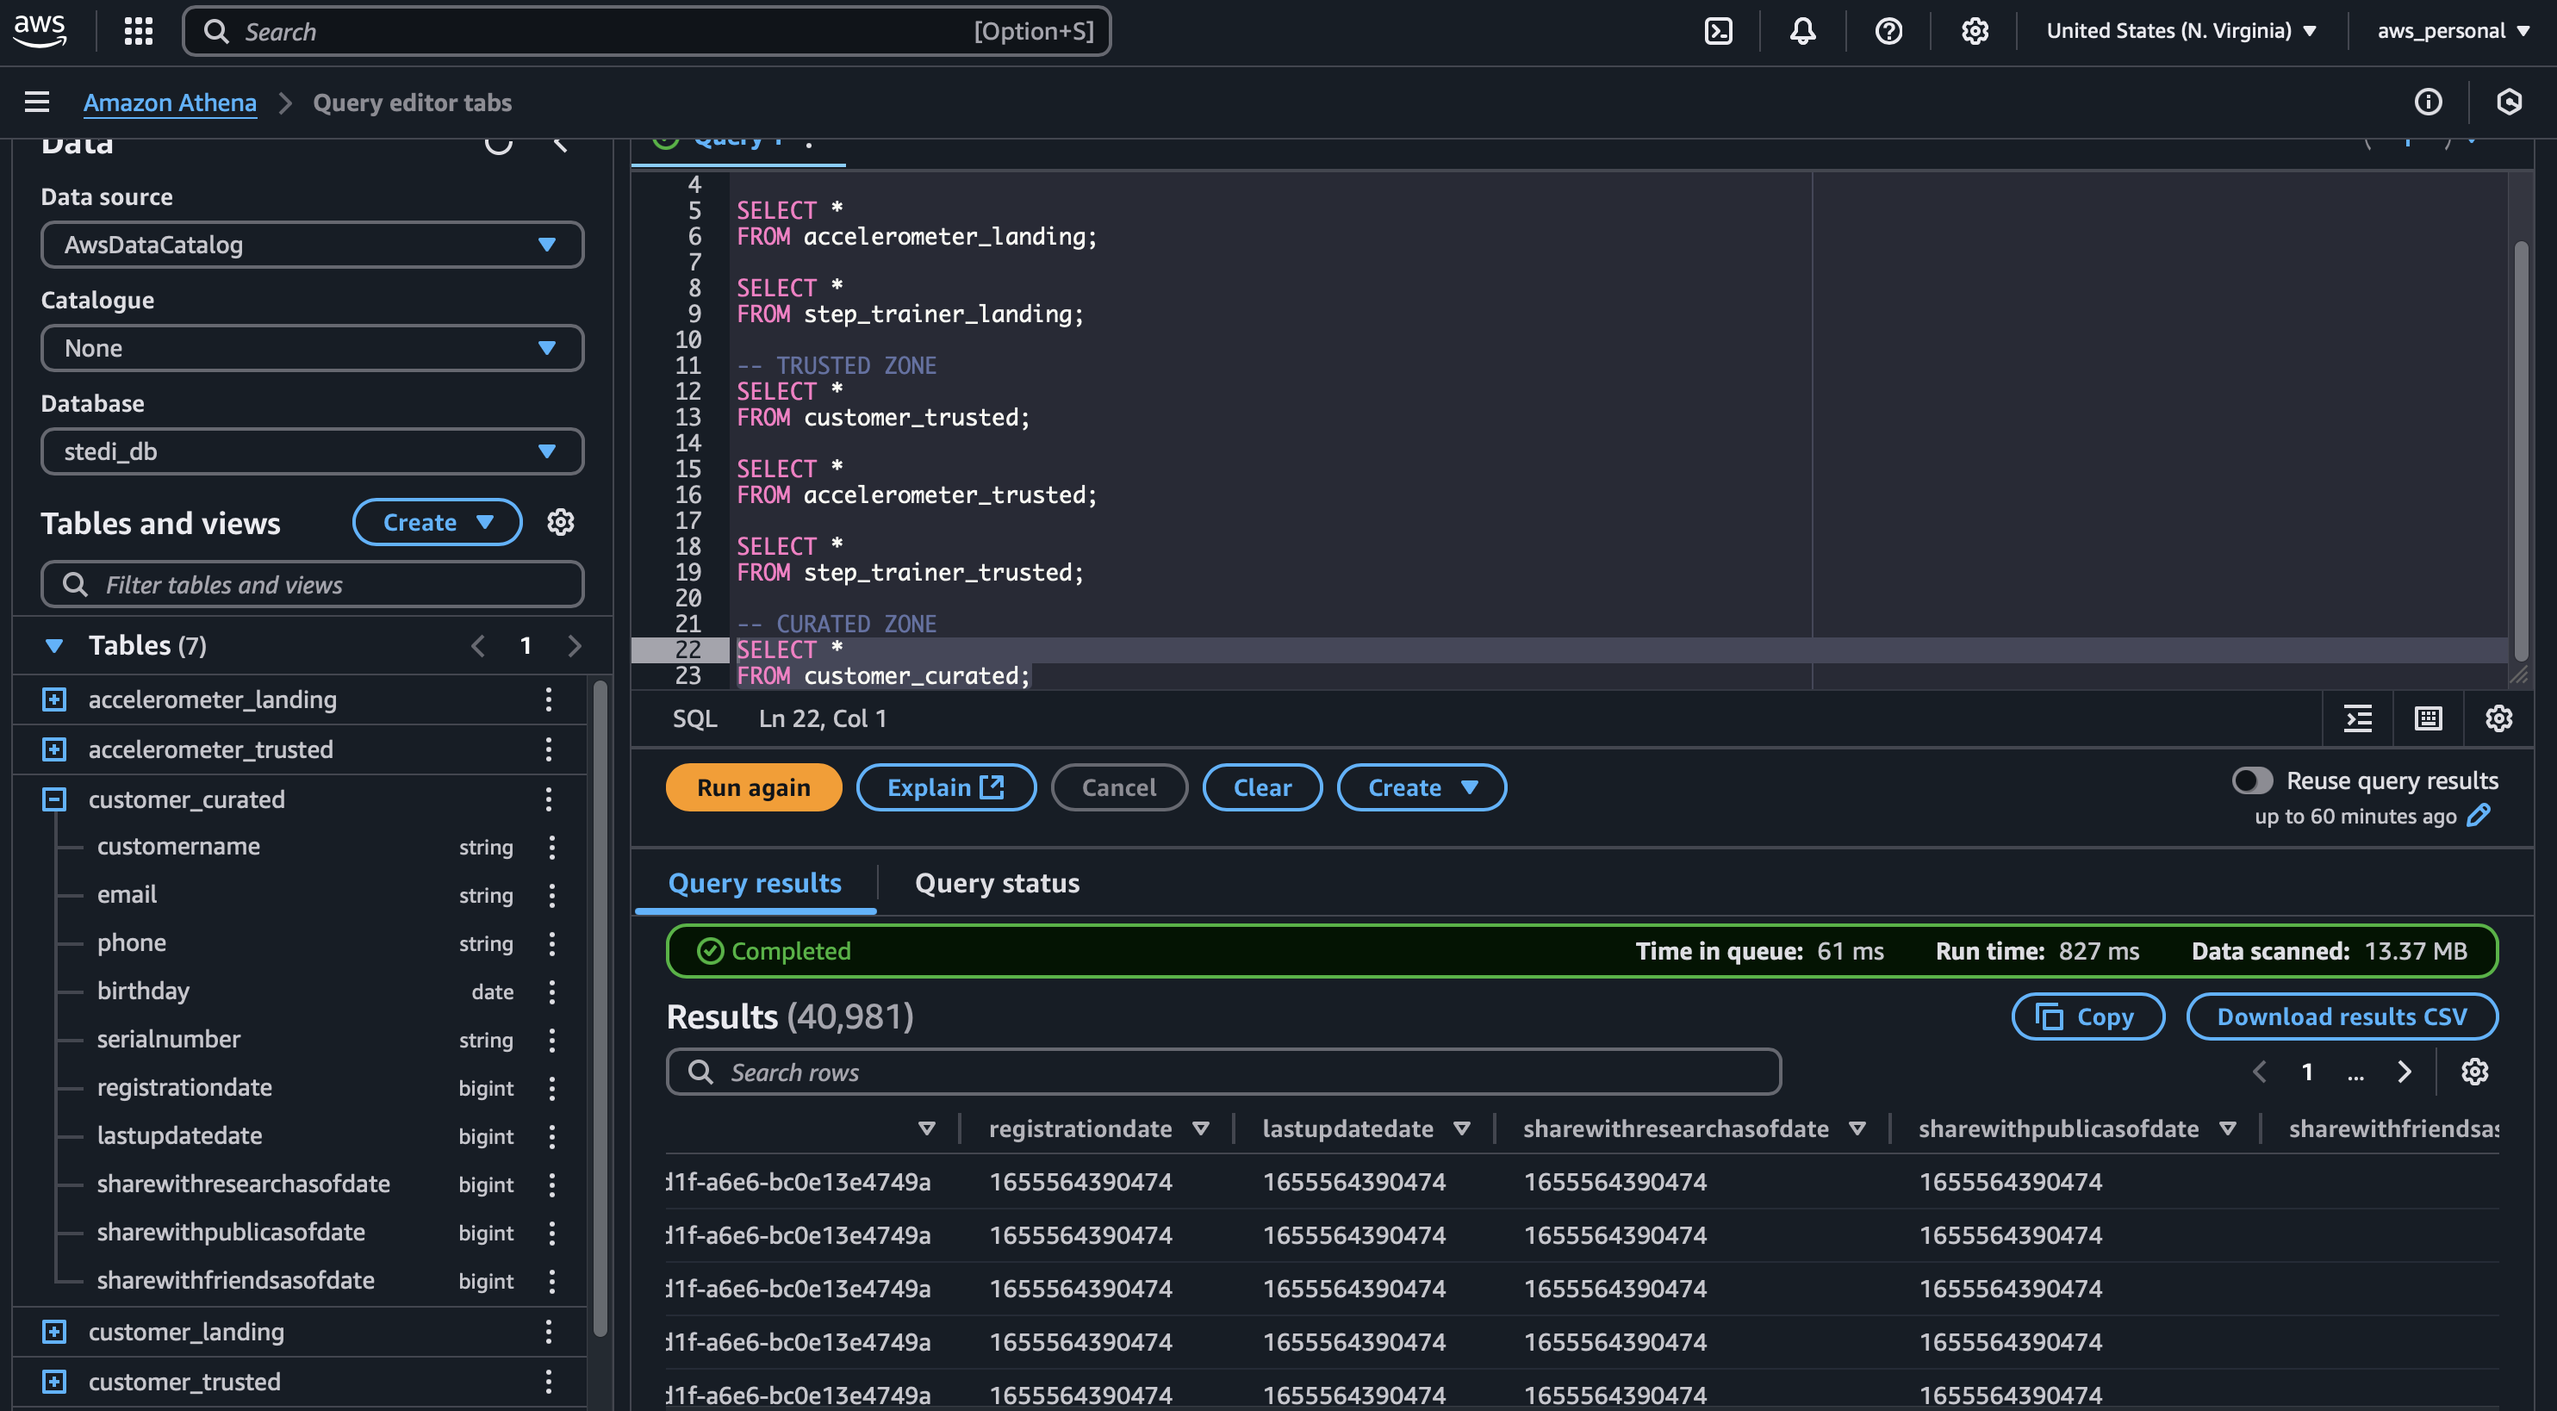
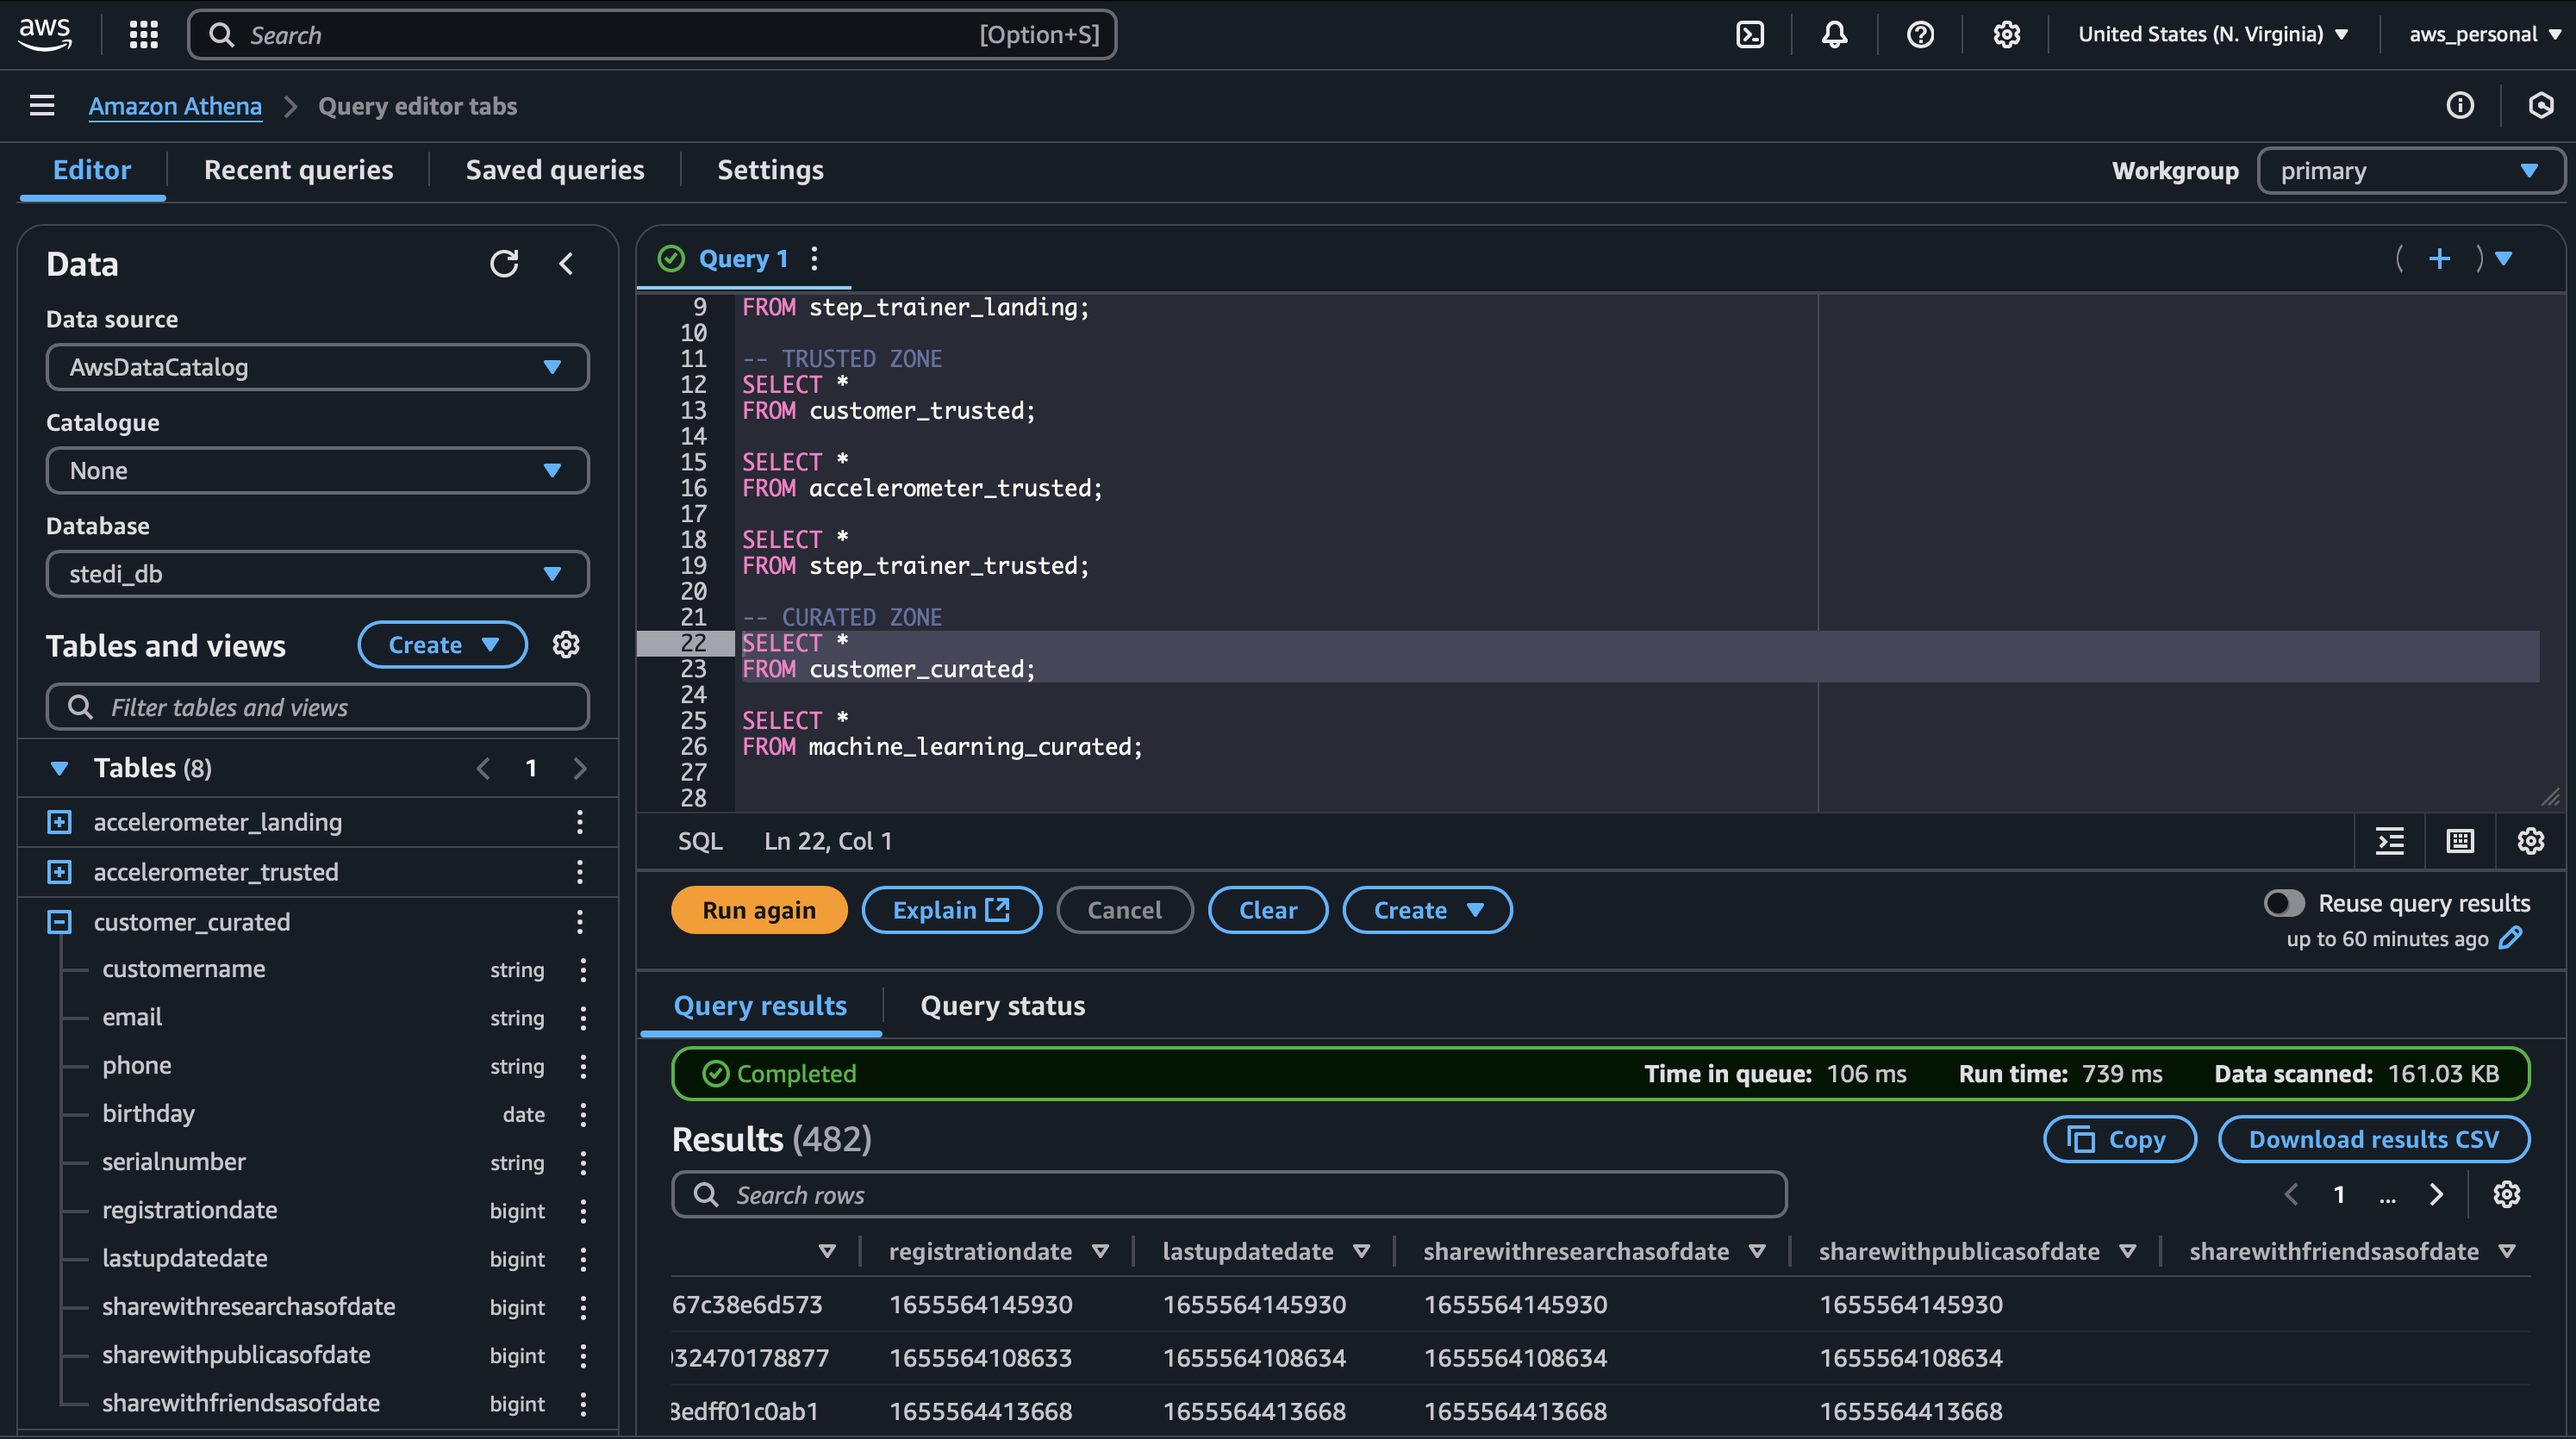
Bug fix in the customer curated glue job

Changed region(s): [[0.0, 0.0, 1.0, 1.0], [0.6509, 0.0, 0.9919, 0.0311], [0.8679, 0.8407, 0.9609, 0.9029]]

diff --git a/stedi_human_balance_analitics/glue_jobs/step_trainer_trusted.py b/stedi_human_balance_analitics/glue_jobs/step_trainer_trusted.py
@@ -25,13 +25,13 @@ Steptrainerlanding_node1745692724201 = glueContext.create_dynamic_frame.from_cat
 Customercurated_node1745692723479 = glueContext.create_dynamic_frame.from_catalog(database="stedi_db", table_name="customer_curated", transformation_ctx="Customercurated_node1745692723479")
 
 # Script generated for node INNER JOIN
-SqlQuery1131 = '''
-SELECT DISTINCT s.* 
+SqlQuery1416 = '''
+SELECT s.* 
 FROM step_trainer_landing s
 JOIN customer_curated c
 ON s.serialnumber = c.serialnumber;
 '''
-INNERJOIN_node1745692726862 = sparkSqlQuery(glueContext, query = SqlQuery1131, mapping = {"step_trainer_landing":Steptrainerlanding_node1745692724201, "customer_curated":Customercurated_node1745692723479}, transformation_ctx = "INNERJOIN_node1745692726862")
+INNERJOIN_node1745692726862 = sparkSqlQuery(glueContext, query = SqlQuery1416, mapping = {"step_trainer_landing":Steptrainerlanding_node1745692724201, "customer_curated":Customercurated_node1745692723479}, transformation_ctx = "INNERJOIN_node1745692726862")
 
 # Script generated for node Step trainer trusted
 Steptrainertrusted_node1745692728849 = glueContext.write_dynamic_frame.from_catalog(frame=INNERJOIN_node1745692726862, database="stedi_db", table_name="step_trainer_trusted", additional_options={"enableUpdateCatalog": True, "updateBehavior": "UPDATE_IN_DATABASE"}, transformation_ctx="Steptrainertrusted_node1745692728849")

diff --git a/stedi_human_balance_analitics/glue_jobs/customer_trusted_to_curated.py b/stedi_human_balance_analitics/glue_jobs/customer_trusted_to_curated.py
@@ -25,13 +25,13 @@ Accelerometertrusted_node1745684461234 = glueContext.create_dynamic_frame.from_c
 Customertrusted_node1745684462373 = glueContext.create_dynamic_frame.from_catalog(database="stedi_db", table_name="customer_trusted", transformation_ctx="Customertrusted_node1745684462373")
 
 # Script generated for node INNER JOIN
-SqlQuery1213 = '''
-SELECT c.* 
+SqlQuery1234 = '''
+SELECT DISTINCT c.* 
 FROM customer_trusted c
 JOIN accelerometer_trusted a
 ON c.email = a.user;
 '''
-INNERJOIN_node1745684465187 = sparkSqlQuery(glueContext, query = SqlQuery1213, mapping = {"customer_trusted":Customertrusted_node1745684462373, "accelerometer_trusted":Accelerometertrusted_node1745684461234}, transformation_ctx = "INNERJOIN_node1745684465187")
+INNERJOIN_node1745684465187 = sparkSqlQuery(glueContext, query = SqlQuery1234, mapping = {"customer_trusted":Customertrusted_node1745684462373, "accelerometer_trusted":Accelerometertrusted_node1745684461234}, transformation_ctx = "INNERJOIN_node1745684465187")
 
 # Script generated for node Customer curated
 Customercurated_node1745684467623 = glueContext.write_dynamic_frame.from_catalog(frame=INNERJOIN_node1745684465187, database="stedi_db", table_name="customer_curated", additional_options={"enableUpdateCatalog": True, "updateBehavior": "UPDATE_IN_DATABASE"}, transformation_ctx="Customercurated_node1745684467623")
